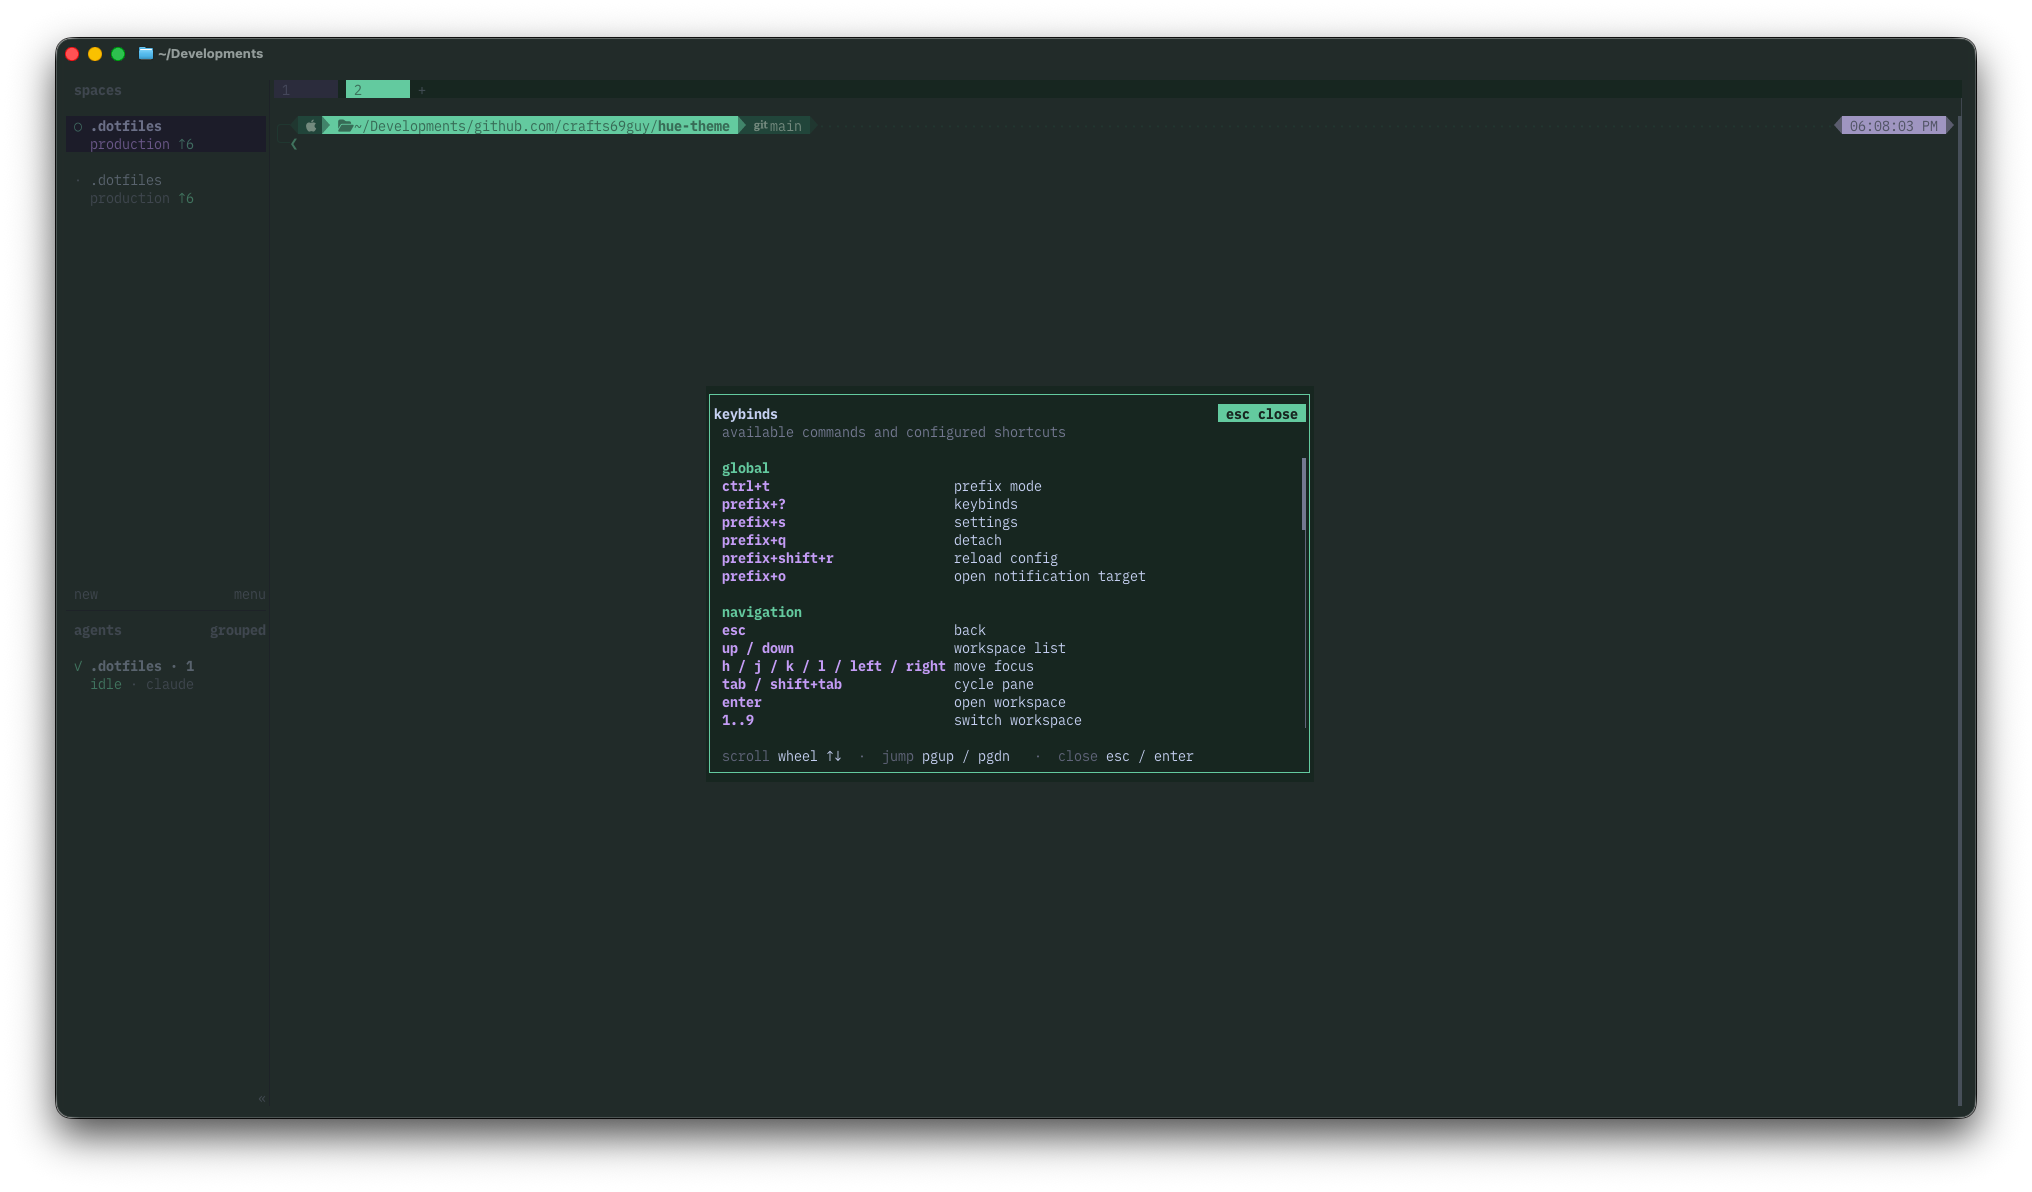
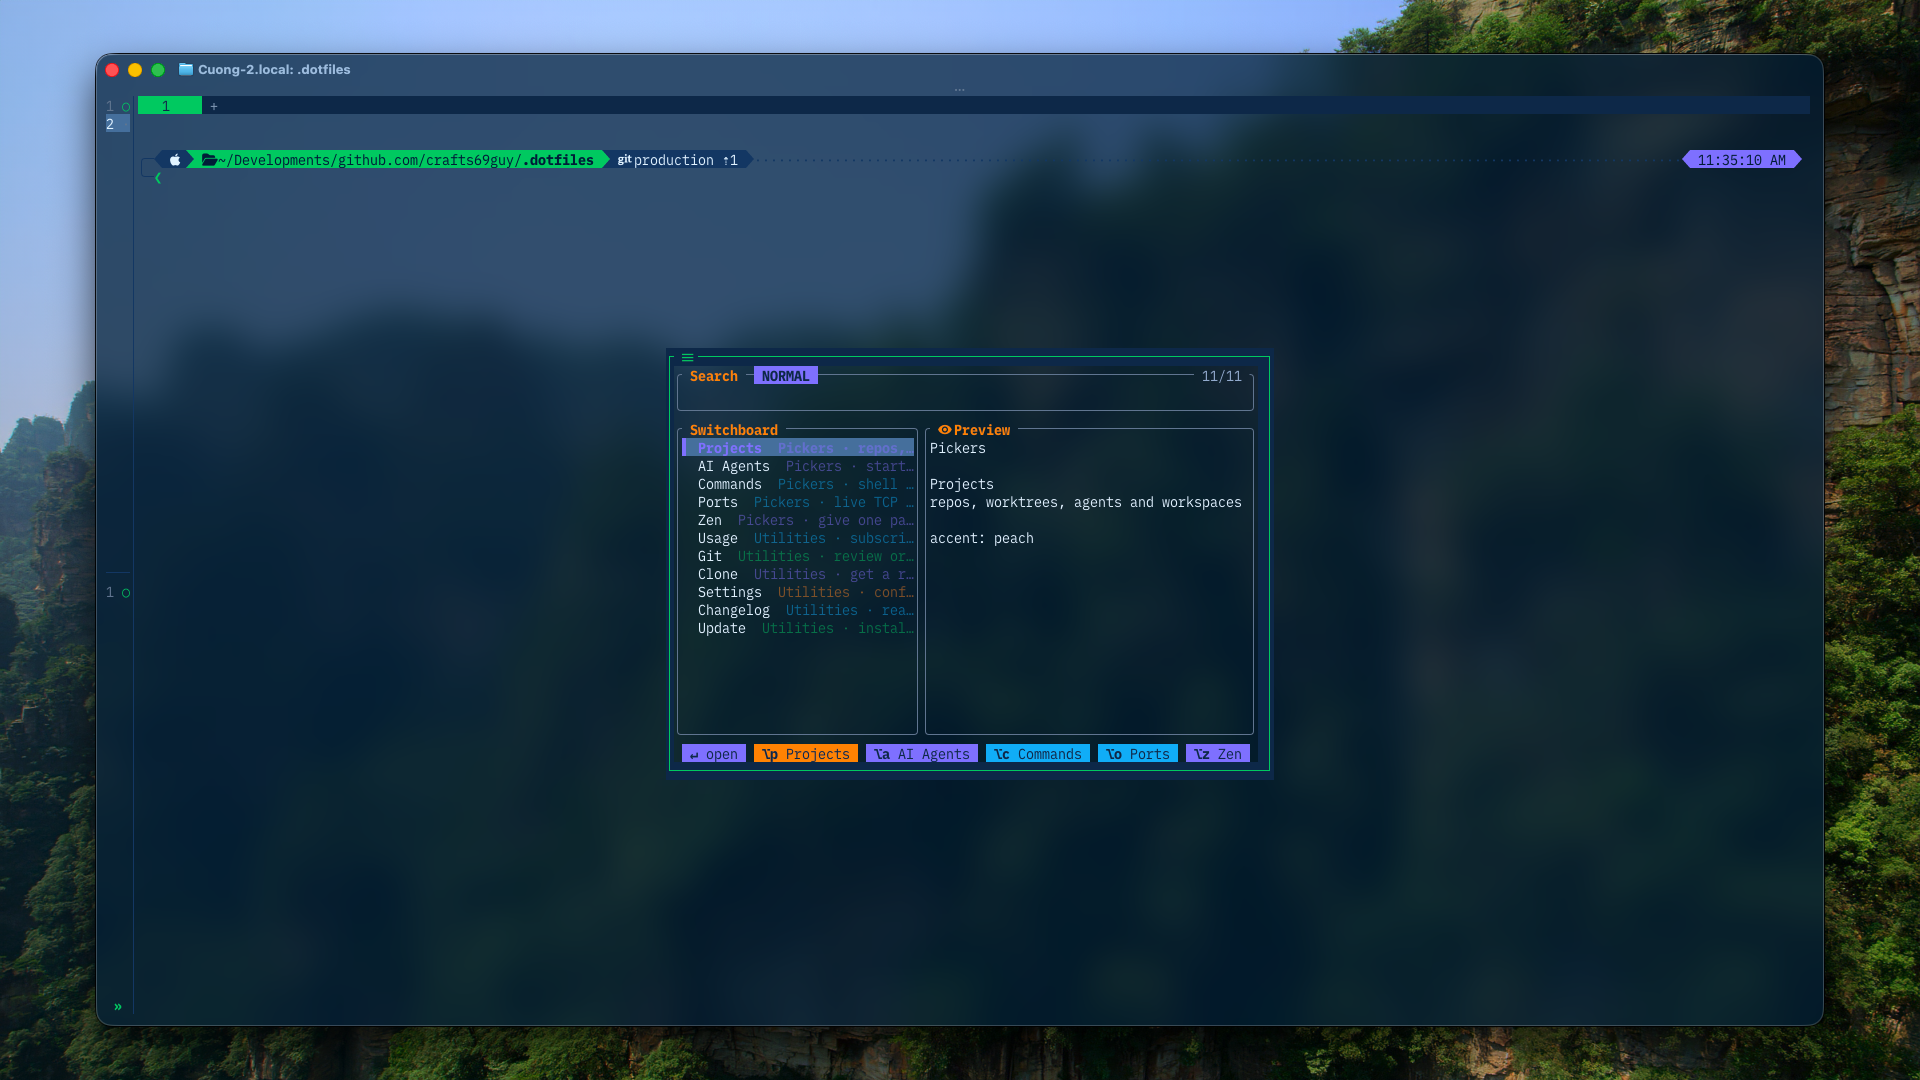
docs: refresh herdr switchboard screenshot

diff --git a/README.md b/README.md
@@ -1,7 +1,7 @@
 ![dotfiles Neovim desktop](./images/dotfiles_neovim_desktop.png)
 
 ![herdr agent session screenshot](./images/herdr_agent_session.png)
-![herdr keybinds screenshot](./images/herdr_keybinds.png)
+![herdr switchboard screenshot](./images/herdr_keybinds.png)
 
 **Warning**: Don’t blindly use my settings unless you know what that entails. Use at your own risk!
 
